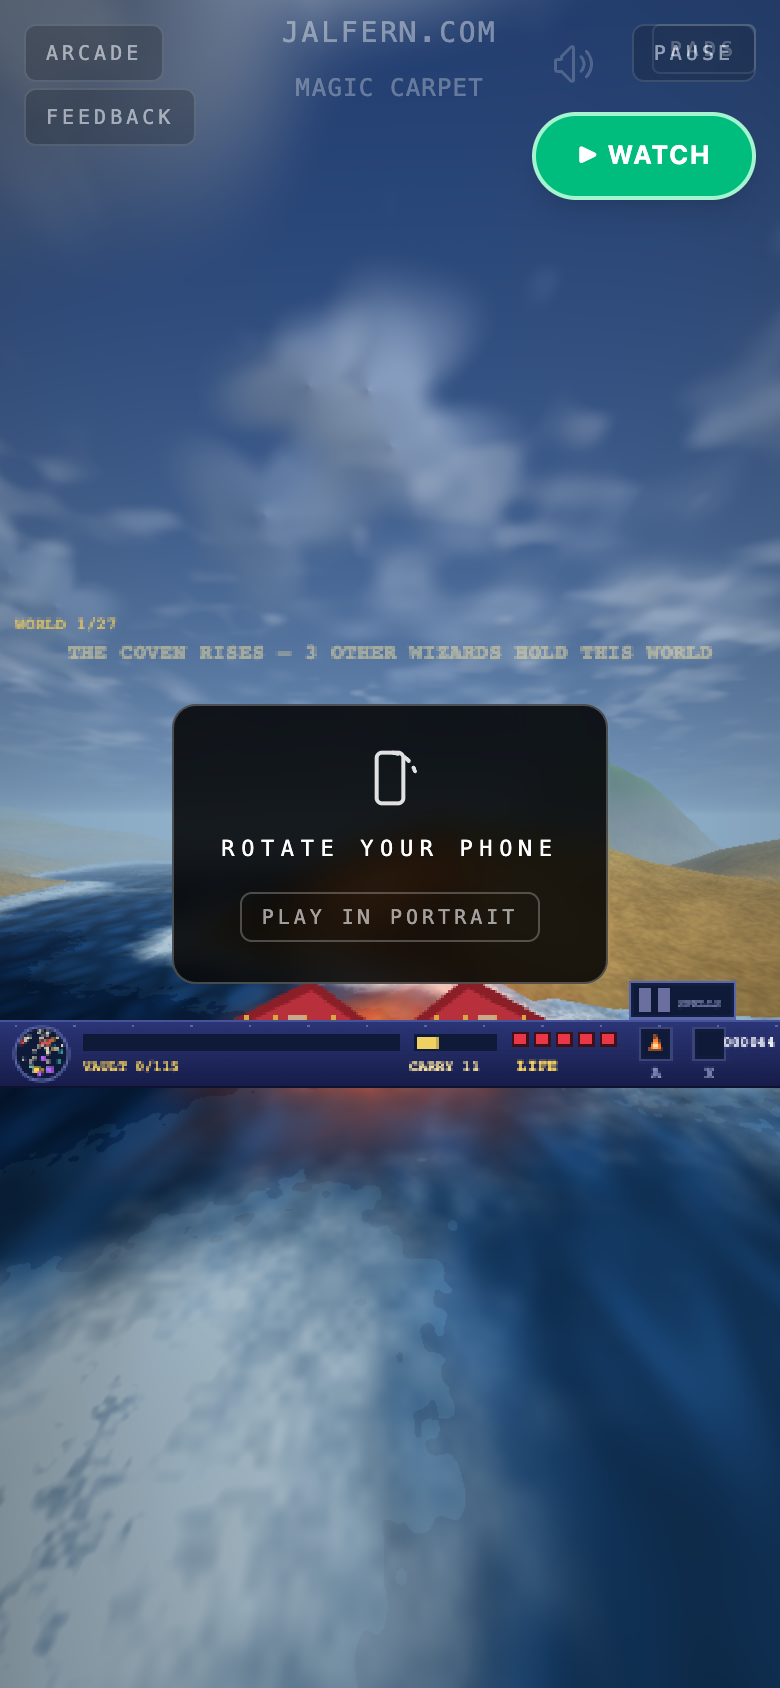
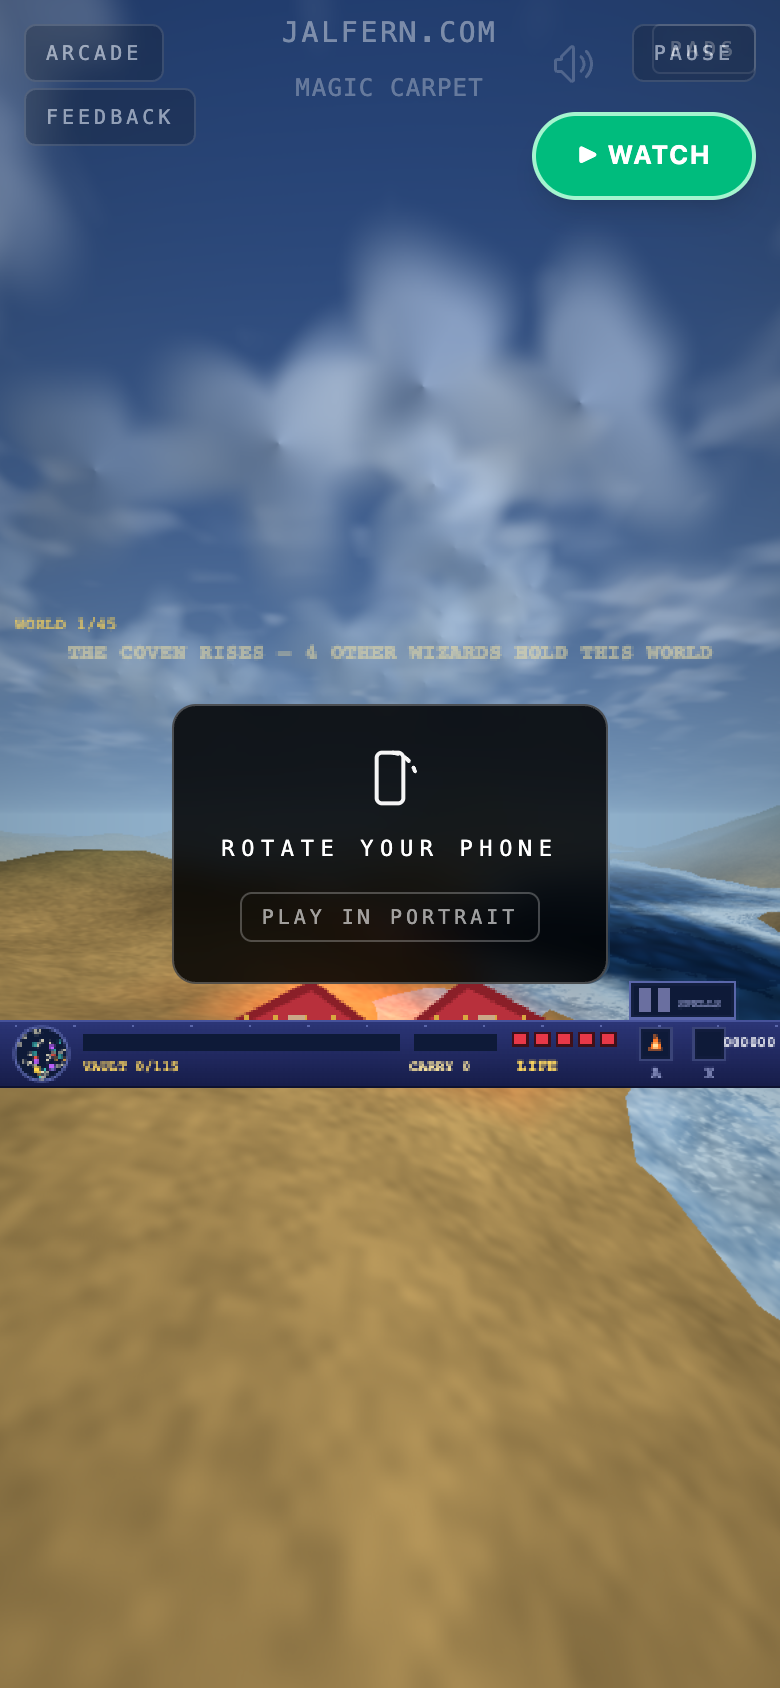
MAGIC CARPET: forty-five worlds — the original's full campaign (#2427) (#2441)
* MAGIC CARPET sim: campaign to forty-five worlds (#2427) — arcs ten to fifteen, +15 ramp, pearls +5, SKY ladder closes OUTER/FINAL; attract lines follow (and fix stale EIGHTEEN)

* MAGIC CARPET #2427 harness+README: campaign gates 27→45, ramp pin widened slice(18), five-SKY ladder pin; 60-seed sweep measured 60/60 slowest 1,112,401 — cap law holds

* MAGIC CARPET #2427: honest cap law — CAMPAIGN_CAP exported (LEVELS.length*30000; measured slowest seed 36 = 1,217,880 exceeds the old 26k factor); sweep + DebugKit ride one source

* carpetcheck: conservation rebase counts the wizard purse LIVE, not the spawn constant — a wizard absorbing a spawn pearl on the level-up tick (45-world seed 7, worlds 40/41, +6 twice) broke the ledger while the sim conserved; harness-only, sim untouched

* carpetcheck: spawn-equivalence pin — every world's makeGame seeds exactly the table (hoard/wizHp/quota/pearl count), keeping the spawn grant proven after the live-purse rebase

diff --git a/src/games/MagicCarpet/sim.js b/src/games/MagicCarpet/sim.js
@@ -18,12 +18,15 @@ export const CFG = {
 
 // #1740: the original ran a long campaign of 45 levels; the atmospheres repeat
 // every third world (the renderer cycles its three PALs the same way), so the
-// named worlds below are nine arcs of three — each arc stricter than the last
+// named worlds below are fifteen arcs of three — each arc stricter than the last
 // (#1925 item 3 grew the campaign from nine to eighteen: arcs four to six keep
 // the same three-atmosphere cycle and the +15 vault ramp; #2419 grew it to
 // twenty-seven: arcs seven to nine keep the +15 vault ramp, and the deeper
 // arcs ride pearls at +5/world so quota stays under ~3.5x the pearl yield —
-// the economy policy below outranks the old +4 step).
+// the economy policy below outranks the old +4 step; #2427 grew it to the
+// original's full forty-five: arcs ten to fifteen keep the same laws, and the
+// margin at the end (quota 805 vs floor(263*3.5)=920) is better than
+// mid-campaign's — the yield law reaches 45 with room to spare).
 // Quota policy (learned in the sweep: seeds 41/54 stalled when world 9's
 // demand outran the pearl yield): every quota stays well under what the pearls
 // alone realistically pay (~pearls x 3.5 against the 2..6 roll), because the
@@ -64,14 +67,48 @@ export const LEVELS = [
     { name: 'HOLLOW GREEN', quota: 505, hoard: 455, wizHp: 425, pearls: 163 },
     { name: 'LAST CINDER', quota: 520, hoard: 470, wizHp: 440, pearls: 168 },
     { name: 'THE FARTHEST SKY', quota: 535, hoard: 485, wizHp: 455, pearls: 173 },
+    // #2427 — the fourth and fifth campaigns: the original's full forty-five.
+    // Arc ten (+15 vault ramp, pearls +5 — the yield margin holds to the end:
+    // the deepest ask is 805 at 263 pearls = 87.5% of the 3.5x yield floor):
+    { name: 'GREENVEIL', quota: 550, hoard: 500, wizHp: 470, pearls: 178 },
+    { name: 'EMBER REACH', quota: 565, hoard: 515, wizHp: 485, pearls: 183 },
+    { name: 'FROSTGATE', quota: 580, hoard: 530, wizHp: 500, pearls: 188 },
+    // arc eleven — stricter still:
+    { name: 'IRON MOOR', quota: 595, hoard: 545, wizHp: 515, pearls: 193 },
+    { name: 'ASHEN WAKE', quota: 610, hoard: 560, wizHp: 530, pearls: 198 },
+    { name: 'WHITEFALL', quota: 625, hoard: 575, wizHp: 545, pearls: 203 },
+    // arc twelve — closes on the fourth SKY:
+    { name: 'MOSSWOOD', quota: 640, hoard: 590, wizHp: 560, pearls: 208 },
+    { name: 'EMBER STORM', quota: 655, hoard: 605, wizHp: 575, pearls: 213 },
+    { name: 'THE OUTER SKY', quota: 670, hoard: 620, wizHp: 590, pearls: 218 },
+    // arc thirteen — the long country the original's back half was:
+    { name: 'DEEPGREEN', quota: 685, hoard: 635, wizHp: 605, pearls: 223 },
+    { name: 'MAGMA FIELD', quota: 700, hoard: 650, wizHp: 620, pearls: 228 },
+    { name: 'RIME WASTES', quota: 715, hoard: 665, wizHp: 635, pearls: 233 },
+    // arc fourteen — stricter still:
+    { name: 'THORNVALE', quota: 730, hoard: 680, wizHp: 650, pearls: 238 },
+    { name: 'LAST PYRE', quota: 745, hoard: 695, wizHp: 665, pearls: 243 },
+    { name: 'SNOWBOUND', quota: 760, hoard: 710, wizHp: 680, pearls: 248 },
+    // arc fifteen — the last country: the deepest vault, the final sky.
+    { name: 'GREEN REACH', quota: 775, hoard: 725, wizHp: 695, pearls: 253 },
+    { name: 'SCORCHED HOLLOW', quota: 790, hoard: 740, wizHp: 710, pearls: 258 },
+    { name: 'THE FINAL SKY', quota: 805, hoard: 755, wizHp: 725, pearls: 263 },
 ]
 export const QUOTA = LEVELS[LEVELS.length - 1].quota
+// Full-campaign tick budget shared by the harness sweep and the DebugKit
+// PROGNOSIS solver: #1925 fixed 300k, #2419 made it ride the campaign at
+// 26,000/world, and #2427 measured the 45-world economy honestly: slowest
+// seed 36 needs 1,217,880 ticks (27,064/world), so the flat 26k factor no
+// longer clears the sweep. Factor 30,000/world (cap 1.35M) leaves ~11% head
+// over the measured worst seed while still failing a soft-locked autopilot.
+// The sweep is deterministic — this is a canary, not a flake guard.
+export const CAMPAIGN_CAP = LEVELS.length * 30000
 
 // ---- title WORLD SELECT (#1740) -----------------------------------------
 // Pure selector plumbing so the whole pick path is Node-provable, like hudTap.
 // Thumb-sized chevron zones sit at the bottom corners of the 320x200 title
 // surface (48x48 HUD px = >=44 CSS px on a 390px phone); the cursor cycles
-// through the twenty-seven worlds and any other start key/tap launches from it.
+// through the forty-five worlds and any other start key/tap launches from it.
 export const SEL = { y: 112, h: 48, zw: 48 }
 export function selectTap(x, y) {
     if (y < SEL.y || y > SEL.y + SEL.h) return null

diff --git a/src/games/MagicCarpet/index.jsx b/src/games/MagicCarpet/index.jsx
@@ -16,7 +16,7 @@ import { isWatchKey, isTakeoverKey, playWatchStart, playWatchStop, watchSfxLog, 
 import WatchButton, { WatchToast, AttractWatchButton } from '../../components/WatchButton'
 import {
     W, H, HUD_H, HORIZON, MAP,
-    LEVELS,
+    LEVELS, CAMPAIGN_CAP,
     SPILLS, spellById,
     makeGame, step, autopilot, stateHash, setHand, cycleR, cycleL, crater, settleGround, INVIS_T,
     hudTap, TAP, TRAY, muffleOf, OPEN_CUTOFF, crumbleFeel, castBearing, diveOf, sampleH, WATER, aerialFog,
@@ -1464,7 +1464,7 @@ const MagicCarpetGame = () => {
                             // ~17k ticks/world at the deep end, so a fixed 60k (or the old
                             // 12k/world) would call world 1 unwinnable or time out late arcs.
                             let t = 0
-                            while (!clone.end && t < LEVELS.length * 26000) { step(clone, autopilot(clone)); t++ }
+                            while (!clone.end && t < CAMPAIGN_CAP) { step(clone, autopilot(clone)); t++ }
                             return clone.end === 'win'
                                 ? `WINNABLE from here: vault quota banked at tick ${clone.tick} (${clone.score} pts)`
                                 : `NOT winnable by the autopilot from here: end=${clone.end || 'timeout'} vault ${Math.floor(clone.bank)}/${clone.quota}`
@@ -1546,7 +1546,7 @@ const MagicCarpetGame = () => {
             {screen === 'attract' && (
                 <div className="absolute inset-x-0 top-4 text-center pointer-events-none">
                     <h1 className="text-4xl font-black" style={{ color: '#e8c860', textShadow: '0 0 18px #6a4ad0, 3px 3px 0 #3a1a5a' }}>MAGIC CARPET</h1>
-                    <p className="text-purple-200/90 font-mono mt-1 text-sm">fly . gather mana . fly it home . restore twenty-seven worlds</p>
+                    <p className="text-purple-200/90 font-mono mt-1 text-sm">fly . gather mana . fly it home . restore forty-five worlds</p>
                     <p className="text-white font-mono font-bold mt-2 animate-pulse">TAP / PRESS ANY KEY TO START</p>
                     <AttractMessage
                         className="text-purple-100/80 font-mono text-[11px] mt-2 px-8 leading-4"
@@ -1559,7 +1559,7 @@ const MagicCarpetGame = () => {
                             'DIE AND THE LOAD IS LOST',
                             'FIREBALLS CRATER THE LAND · BURNING VILLAGES BREED WOLVES',
                             'CAST INVISIBILITY AND WIZARD AND WOLVES LOOK RIGHT THROUGH YOU',
-                            'EIGHTEEN WORLDS · SIX ARCS OF THREE ATMOSPHERES · EACH GUARDED',
+                            'FORTY-FIVE WORLDS · FIFTEEN ARCS OF THREE ATMOSPHERES · EACH GUARDED',
                         ]}
                     />
                     <span className="block mt-2 text-purple-200/70 font-mono font-bold tracking-wider">{WATCH_ATTRACT_HINT}</span>

diff --git a/src/games/MagicCarpet/renderer.js b/src/games/MagicCarpet/renderer.js
@@ -1316,7 +1316,7 @@ void main(){
     }
     let gs0 = null
 
-    // #1740/#1925/#2419: twenty-seven worlds over three atmospheres — cycle like the original's
+    // #1740/#1925/#2419/#2427: forty-five worlds over three atmospheres — cycle like the original's
     // repeating campaign instead of clamping the ninth world to Frostbound.
     const applyPalette = (level) => {
         const p = PAL[level % PAL.length]

diff --git a/src/games/MagicCarpet/README.md b/src/games/MagicCarpet/README.md
@@ -335,11 +335,11 @@ see item 5).
   Invisibility shipped #1610, volcano #1612 item 5, shatter + raise #1639,
   dissolve #1668, **clone #1680** — the roster tail of #1612 item 5
   (clone/dissolve/shatter/volcano) is now fully shipped.
-- **PARTIAL by #1740, grown by #1925 item 3 and #2419:** the title carries a WORLD SELECT
-  (◀ ▶ / chevron taps, twenty-seven startable worlds) — the campaign runs twenty-seven
-  worlds (nine arcs of three atmospheres), not the original's 45;
-  scoring is banked mana + kills + clears + time bonus. The remaining growth
-  (worlds 28–45) and the scoring-model delta stay open.
+- **CLOSED by #2427 (grown by #1740, #1925 item 3, #2419):** the title carries a WORLD
+  SELECT (◀ ▶ / chevron taps, forty-five startable worlds) — the campaign runs
+  forty-five worlds (fifteen arcs of three atmospheres), the original's full length;
+  scoring is banked mana + kills + clears + time bonus. The scoring-model delta
+  vs the original stays open (needs its own research stage).
 - **Castle-spell menu closed by #1764 item 1:** the original's spell selection was
   a browseable book, and the book lives at home. `B` (or a tap on the glowing
   prompt) opens it ONLY inside the castle's 26u reach — away from it the refusal
@@ -796,3 +796,44 @@ the campaign grows from eighteen to **twenty-seven worlds** — the original ran
   and seed-88 wins stay green — correct, the mutant wins, it just stops early
   (the #1740 precedent; proven 2026-11-15, restored after). Or clamp arc-nine
   pearls back to +4 — the ramp-table pin goes red alone.
+
+## #2427 campaign to forty-five worlds (2026-11-16, forge slot b): THE FINAL SKY
+
+The never-dry stage filed by #2419: the campaign grows from twenty-seven to the
+original's full **forty-five worlds** — fifteen arcs of three atmospheres.
+
+- Arcs ten to fifteen keep every house law: the atmosphere cycle (45 ≡ 0 mod 3,
+  so every arc still closes on frost), the unbroken +15 ramp on quota/hoard/
+  wizHp, pearls +5/world, strict escalation. **The yield law reaches 45 with
+  room**: the deepest ask is 805 at 263 pearls = 87.5% of floor(pearls·3.5)=920
+  — a *better* margin than mid-campaign's 89%, so no tail re-file was needed.
+- Eighteen named worlds in house motif (words reused, full names unique), two
+  new SKY closures: GREENVEIL, EMBER REACH, FROSTGATE / IRON MOOR, ASHEN WAKE,
+  WHITEFALL / MOSSWOOD, EMBER STORM, THE OUTER SKY / DEEPGREEN, MAGMA FIELD,
+  RIME WASTES / THORNVALE, LAST PYRE, SNOWBOUND / GREEN REACH, SCORCHED
+  HOLLOW, THE FINAL SKY (the superlative ladder LAST → ENDLESS → FARTHEST →
+  OUTER → FINAL).
+- Plumbing rode `LEVELS.length` everywhere (select, cursor, HUD, PROGNOSIS);
+  the attract copy is updated — and the stale `EIGHTEEN WORLDS · SIX ARCS`
+  line #2419 left behind finally follows the campaign.
+- **Caps measured, law raised honestly:** the flat factor rides the campaign at
+  `CAMPAIGN_CAP = LEVELS.length * 30000` — now exported from sim.js so the
+  carpetcheck sweep and the DebugKit PROGNOSIS budget can never drift apart
+  again. Fresh 60-seed measurement at 45 worlds: **60/60 win**, slowest seed 36
+  at **1,217,880 ticks** — 90% of the new 1.35M cap, but it **exceeds the old
+  1.17M** (26k/world, seed 36 alone needed 27,064): deep-arc fights lengthen
+  superlinearly (wizHp 725 at the end vs 455), so my first estimate of ~850k
+  was low by a quarter and the first README draft quoted the wrong seed (88 was
+  *a* slow seed, not the slowest — the single-seed probe lied by omission).
+  The sweep is deterministic (seeded RNG, fixed timestep), so headroom here is
+  canary-for-rule-changes, not flake insurance.
+- carpetcheck: campaign gates re-targeted twenty-seven→forty-five (seed-7/seed-88
+  full clears, live name-order campaign, sweep titles); the arc ramp pin widened
+  from slice(18,27) to slice(18) — it now proves +15/+5 all the way to world 45
+  — and the SKY trio pin became a five-SKY ladder incl. THE OUTER/THE FINAL SKY.
+  Cursor wrap stays proven generically (±n round-trips + full cycles both
+  directions at n=45, no literals).
+- Mutation guide (prove it can fail): drop the last LEVELS entry (THE FINAL
+  SKY) → the forty-five-world table check goes red (44≠45) while the seed-7
+  and seed-88 wins stay green — the mutant wins early (#1740 precedent). Or
+  clamp a deep-arc pearl step back to +4 — the widened ramp pin goes red alone.
